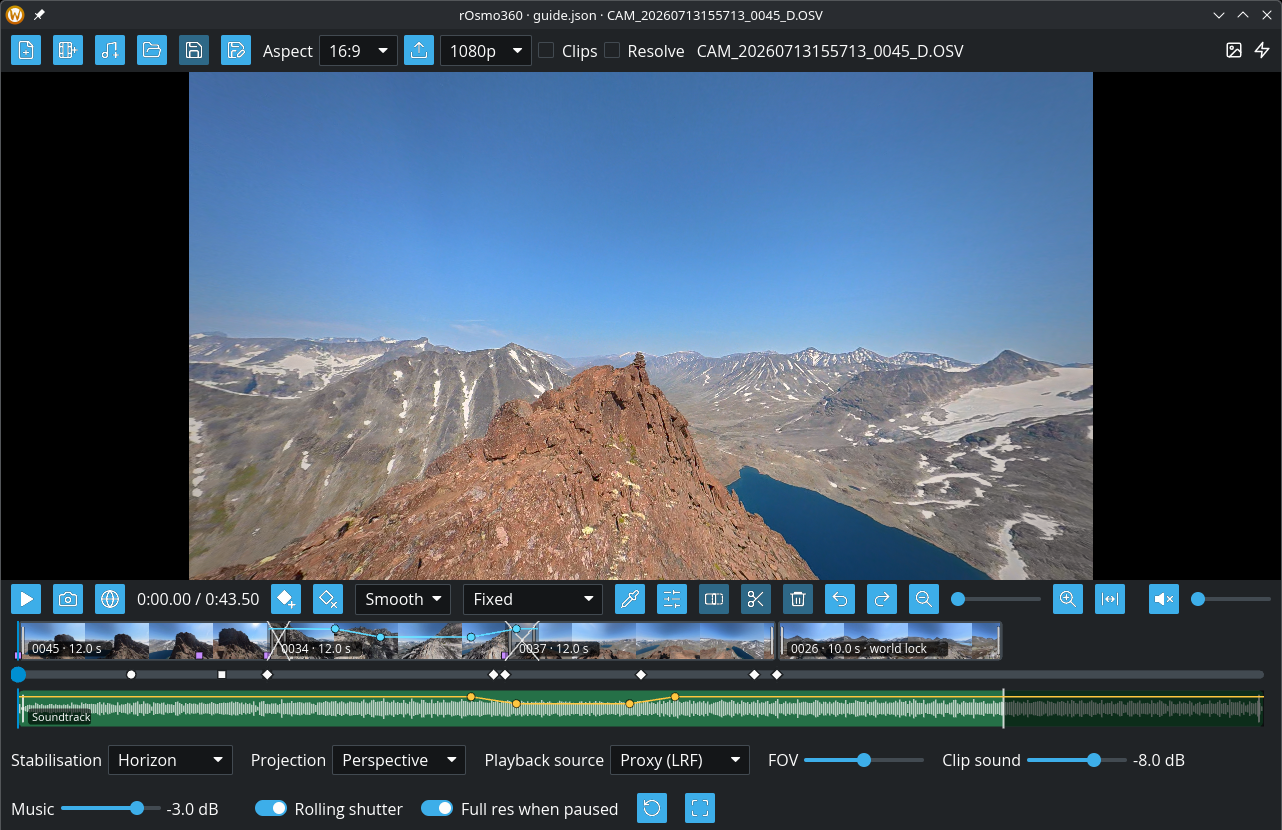
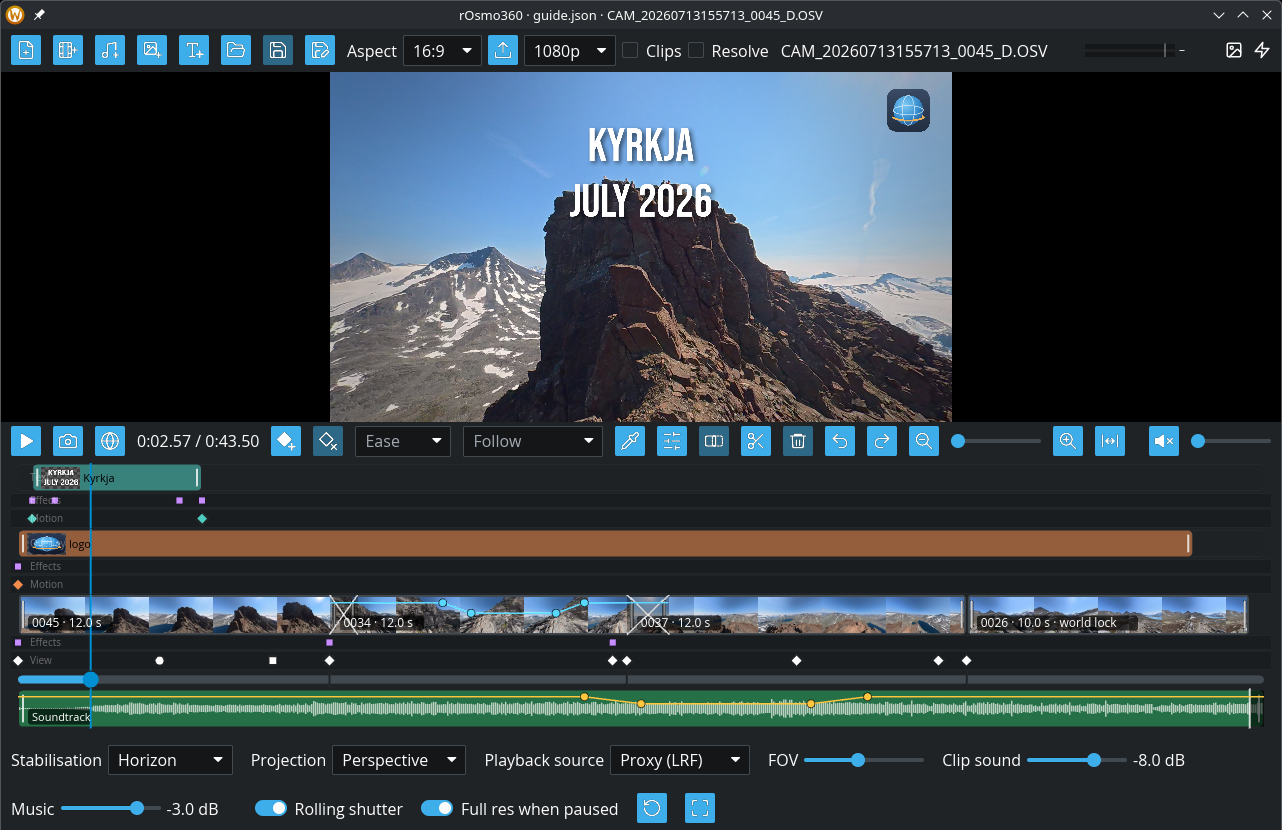
README for 0.3
Features: ordinary videos and photos as cuts, titles and overlays with
the built-in fonts and on-screen handles, opacity, the audio meter,
projects keeping the framed view; on the command line check, the new
project sheets and scan over folders. The player table gains titles and
overlays; the project format gains pictures and videos as inputs, how
keyframes frame them, opacity, and the text and overlays tracks with an
example (checked to load and draw). The roadmap drops 0.3 and adds
picture-in-picture video and Osmo 360 photos; the fonts' licences and
cosmic-text are credited. The screenshot is retaken from the guide's
demo, with its title and logo.

diff --git a/README.md b/README.md
@@ -1,8 +1,8 @@
 # rOsmo360
 
-A 360° video player and editor for **DJI Osmo 360** footage, written in Rust. It plays the camera's `.OSV` files directly: it stitches the two fisheye lenses, stabilises with the camera's gyro data and lets you look around freely, without going through DJI Studio. Then you can cut clips together on a timeline, keyframe the camera's view, add crossfades, music and colour effects, and export a framed video.
+A 360° video player and editor for **DJI Osmo 360** footage, written in Rust. It plays the camera's `.OSV` files directly: it stitches the two fisheye lenses, stabilises with the camera's gyro data and lets you look around freely, without going through DJI Studio. Then you can cut clips together on a timeline, with ordinary videos and photos beside them, keyframe the camera's view, add crossfades, music, colour effects, titles and logos, and export a framed video.
 
-![rOsmo360 editing a mountain hike: the view over a cairn on a ridge, a lake and glaciers, with cuts from four clips on the timeline below, crossfades between them, their thumbnails and keyframes, and a soundtrack lane with its waveform and volume line](docs/screenshot.png)
+![rOsmo360 editing a mountain hike: a rock tower under the title "Kyrkja, July 2026" with a small logo in the corner, and below it the timeline: a text lane and an overlay lane, cuts from four clips with crossfades, thumbnails and keyframe rows, and a soundtrack lane with its waveform and volume line](docs/screenshot.png)
 
 **New here? Read the [user guide](docs/user-guide.md)**: the whole app, step by step, with screenshots.
 
@@ -30,14 +30,15 @@ I vibed this tool primarily for Linux, since I couldn't find anything close to D
 - **Projections**: little planet (the default, like DJI Studio), perspective and flat equirectangular.
 - **Smooth playback** from the low-resolution proxy (`.LRF`), switching to the full-resolution frame when paused. On a fast GPU it can stream the full-resolution `.OSV` directly.
 - **Hardware decoding** on any GPU vendor: Vulkan Video, VA-API or CUDA, with a software fallback.
-- **Sound**, in sync with the picture, with mute and volume.
+- **Sound**, in sync with the picture, with mute and volume, and an **audio meter** of the mix (peak and RMS per channel, red past 0 dBFS, the loudest peak held), as the export will mix it.
 - **Save photos** of a paused frame: the view as framed, at 3840 px on the long side, or the whole 360° sphere at 7680 × 3840.
 - **Aspect lock** (16:9, 9:16, 4:3, 1:1, 2:1) for framing shots; saved views and exports take the same shape.
 - **Looks native**: follows your desktop's colour theme and accent (KDE, GNOME, Hyprland and others through the desktop portal, Windows, macOS), including live changes, in the Flatpak too. Your settings are remembered between runs.
 
 ### Editing
 
-- **Timeline** of cuts from one or more clips: split, trim, move and delete them, with undo and redo. Each cut shows thumbnails of its footage, and the timeline zooms in for fine work.
+- **Timeline** of cuts from one or more clips: split, trim, move and delete them, with undo and redo. Each cut shows thumbnails of its footage, its keyframes sit in rows under it, and the timeline zooms in for fine work.
+- **Ordinary videos and photos** as cuts beside the Osmo clips: MP4, MOV and the like from a phone, a drone or an action camera (any frame rate, portrait too), and JPG, PNG, WebP and other pictures. They work like any cut, framed by pan and zoom keyframes, so a slow push-in over a photo comes free.
 - **Keyframes** for the view: where it looks (yaw, pitch, roll), the zoom, and the projection, so a shot can pan, zoom or morph into a little planet. Each keyframe eases into the next smoothly, at a steady speed, or holds and then cuts.
 - **Follow the stick**: a keyframe can follow the selfie stick, and so whoever holds it, for a third-person shot that frames you automatically. It works from the camera's motion data, even straight below the camera.
 - **Follow a subject by colour**: `rosmo360 track` finds a coloured subject (a friend's jacket, a tent) through a clip, and keyframes can follow it the same way.
@@ -45,20 +46,22 @@ I vibed this tool primarily for Linux, since I couldn't find anything close to D
 - **Crossfades** between cuts, picture and sound: overlap two cuts and the first dissolves into the second. Select a cut in the overlap to frame it on its own.
 - **Music**: songs on a lane of their own under the edit, to move, trim, split and crossfade; it fades out by itself where the video ends. A project can start from a song.
 - **Sound levels**: one slider for the clips' sound and one for the music, plus volume points over time on the music and on each cut's own sound, to dip the music under talk or tame the wind.
-- **Colour effects**, keyframed per cut: exposure, contrast, highlights and shadows, temperature and tint (with a white-balance eyedropper), saturation, vibrance and a vignette, in a side panel. Plus fades from and to black for the whole edit.
-- **Projects**: save the edit and open it again later. A cut can carry a short note, shown on the timeline.
+- **Colour effects**, keyframed per cut: exposure, contrast, highlights and shadows, temperature and tint (with a white-balance eyedropper), saturation, vibrance, a vignette and opacity, in a side panel. Plus fades from and to black for the whole edit.
+- **Titles and overlays**: a text track and an overlay track above the picture, for titles, captions and logos (PNGs keep their transparency). Text is typed in a panel of its own, with six built-in fonts that look the same on every computer (and your system's), size, colour, alignment, a shadow and an outline. Drag, size and turn items right on the view; their place, effects and opacity are keyframed, so a title can drift and fade.
+- **Projects**: save the edit and open it again later, framed as you left it. A cut can carry a short note, shown on the timeline.
 - **Export** the edit to MP4 with its sound, from 720p to 4K, in the aspect lock's shape. It renders on the GPU, about four times faster than the CPU (21 frames a second at 1080p on an RTX 3090).
 - **Export for another editor**: a file per cut (`My hike - 001.mp4`, `- 002` …) with the music beside them as WAVs, graded or as shot, and a DaVinci Resolve format (DNxHR HQ with PCM sound in `.mov`) that Resolve's free Linux version can read.
 
 ### Command line
 
 - **Export** a clip with a fixed view or keyframed camera moves, or a whole project, in any shape such as 9:16.
-- **Skim clips**: contact sheets of stitched frames (of a clip, or of a project with a row per cut), and a per-second summary of the camera's motion and the sound level.
+- **Skim clips**: contact sheets of stitched frames (of a clip, or of a project: a row per cut headed with its edit time, the titles drawn in, the music's waveform underneath), and a per-second summary of the camera's motion and the sound level, for one clip or a whole folder.
+- **Check an edit** for likely mistakes: cuts out of filming order, repeated footage, crossfades within one scene, pans too fast to follow, music that ends too soon.
 - Stitch single frames or whole clips to equirectangular images and MP4 video.
 
 ## Requirements
 
-- A DJI Osmo 360 clip (`.OSV`). Keep the `.LRF` proxy file next to it for the smoothest playback.
+- A DJI Osmo 360 clip (`.OSV`). Keep the `.LRF` proxy file next to it for the smoothest playback. Ordinary videos and photos can join it in an edit.
 - `ffmpeg` and `ffprobe` on your `PATH`.
 - A GPU with Vulkan support (Linux) and up-to-date drivers. It plays, decodes and exports.
 - On Linux, ALSA for sound (`alsa-lib`, or `libasound2-dev` on Debian/Ubuntu). PipeWire and PulseAudio work through it.
@@ -96,7 +99,7 @@ The program is `target/release/rosmo360`. `packaging/build-release.sh` builds th
 
 ## Usage
 
-The **[user guide](docs/user-guide.md)** walks through the whole app with screenshots: watching, projections, stabilisation, the timeline, keyframes, projects and exporting.
+The **[user guide](docs/user-guide.md)** walks through the whole app with screenshots: watching, projections, stabilisation, the timeline, keyframes, crossfades, music, effects, titles and overlays, projects and exporting.
 
 ```sh
 rosmo360 play                 # opens the player; use Open clips… or Ctrl+O
@@ -119,7 +122,7 @@ In the player:
 | Mute | M |
 | Reset view / fullscreen | 0 / F |
 | Keyframe the current view | K, or the ◆+ button (on a keyframe, it updates it) |
-| Jump to the previous / next keyframe | `[` / `]`, or click a ◆ on the timeline |
+| Jump to the previous / next keyframe | `[` / `]`, or click a ◆ in the cut's View row |
 | Move / delete a keyframe | Drag its ◆ / Delete |
 | How a keyframe moves on to the next | J cycles, or the Ease picker: smooth (◆), linear (●) or hold (■, stays put then cuts) |
 | Make a keyframe follow the selfie stick or a subject | The Follow picker: Fixed, Stick, or Colour track (its mark gets a ring); for a colour track, the eyedropper: drag a box over the subject (a jacket, a tent) and it's tracked to the end of the cut |
@@ -136,12 +139,15 @@ In the player:
 | Move / trim / split / delete a song | Drag it (it snaps edge to edge) / drag its edges / C / Delete, with it selected; Shift-drag onto another song to crossfade them |
 | Mix levels | The **Clip sound** and **Music** sliders |
 | Volume points | Ctrl+click on the music lane or on a cut; drag them up/down and sideways, Delete removes; K adds one at the playhead with a song or point selected |
-| Colour effects and fades | G, or the sliders button: the Effects panel (sliders keyframe the cut's look at the playhead; white-balance eyedropper; to all cuts; fades in/out) |
+| Colour effects and fades | G, or the sliders button: the Effects panel (sliders keyframe the cut's look at the playhead, opacity included; white-balance eyedropper; to all cuts; fades in/out) |
+| Add a title / a logo or picture | The T with a plus (the Text panel opens at the left) / the picture with a plus; both go in at the playhead, 5 s long |
+| Place a title or picture | Paused, select it (on the view or its timeline block), then drag it, a corner to size it, the knob to turn it (Shift: 15° steps); or Across, Down, Size and Rotation in the Effects panel. Each change sets a motion keyframe at the playhead |
+| Move / trim / delete a title or picture | Drag its block / its edges on the Text or Overlay lane / Delete |
 | Undo / redo | Ctrl+Z / Ctrl+Shift+Z |
 | Save / open / new project | Ctrl+S (Ctrl+Shift+S: save as) / Ctrl+Shift+O / Ctrl+N |
 | Export the edit | The export button, an arrow out of a tray (pick 720p–2160p next to it); the aspect lock sets the shape, 16:9 when free. **Clips** writes each cut to its own file ("project - 001" and on) and the music as WAVs, for another editor (**Graded** gives them their effects); **Resolve** writes DNxHR and PCM in `.mov`, which DaVinci Resolve's free Linux version can read |
 
-A project saves the cuts with their keyframes, crossfades, effects and volume points, the music, the levels, the fades and the aspect lock, in the same file `rosmo360 export` renders (see below). Clips in the project's folder are stored by relative path, so the folder can be moved as a whole.
+A project saves the cuts with their keyframes, crossfades, effects and volume points, the music, the levels, the titles and overlays, the fades and the aspect lock, in the same file `rosmo360 export` renders (see below). Clips in the project's folder are stored by relative path, so the folder can be moved as a whole.
 
 Command-line tools:
 
@@ -176,7 +182,7 @@ Angles are in degrees: yaw turns right, pitch looks up. With stabilisation on (h
 
 Exports are 1080p by default (1920 × 1080, or 1080 × 1920 for 9:16), a good quality for sharing online. `-r` picks `720p`, `1080p`, `1440p` or `2160p` (`4k`), meaning the short side in pixels. `-a` sets the shape (`16:9`, `9:16`, `1:1`, `4:5`, …) when the reframe file doesn't, and `--size 1234x567` gives an exact size.
 
-To join cuts from one or more clips, write a project file and export it. Each cut has its own keyframes, in clip time, and may set its own `stabilize` (`off`, `horizon`, `level` or `lock`; otherwise `--stabilize`, horizon by default) and a `note`, which the player's timeline shows on the cut. Relative paths are relative to the project file:
+To join cuts from one or more clips, write a project file and export it. A cut's `input` is an Osmo clip, an ordinary video or a picture (a picture has no length of its own: `"in": 0, "out": 5` shows it for 5 s). Each cut has its own keyframes, in clip time, and may set its own `stabilize` (`off`, `horizon`, `level` or `lock`; otherwise `--stabilize`, horizon by default) and a `note`, which the player's timeline shows on the cut. Relative paths are relative to the project file:
 
 ```json
 {
@@ -193,7 +199,9 @@ A cut may also have:
 
 - `crossfade`: seconds it overlaps the cut before, dissolving in from it (the edit is that much shorter);
 - `volume`: its own sound's level over time, `[{"t": 12, "volume": -10}, …]` in clip time and dB, straight lines between points;
-- `effects`: colour keyframes in clip time, each holding the whole look (fields left out are 0): `exposure` (stops, −3…3), `contrast`, `highlights`, `shadows`, `temperature`, `tint`, `saturation`, `vibrance` (−1…1), `vignette` (0…1), and `ease`.
+- `effects`: colour keyframes in clip time, each holding the whole look (fields left out are 0, opacity 1): `exposure` (stops, −3…3), `contrast`, `highlights`, `shadows`, `temperature`, `tint`, `saturation`, `vibrance` (−1…1), `vignette` (0…1), `opacity` (0…1, the rest black), and `ease`.
+
+On an ordinary video or a picture there's no sphere: a keyframe pans and zooms within the picture. `fov` 90 shows its whole height (and is where a cut without keyframes stays), 45 is a 2× zoom, and 90° of `yaw` or `pitch` moves the view one picture height.
 
 And the edit as a whole: `sound` (the clips' level in dB), `fades` (seconds from and to black) and `music`, songs placed in edit time:
 
@@ -216,6 +224,26 @@ And the edit as a whole: `sound` (the clips' level in dB), `fades` (seconds from
 ```
 
 A music clip plays `in` to `out` of its song from `at` in the edit; two may overlap partly, which crossfades them. Its `keyframes` are volume points in edit time, in dB on top of `volume`. The export ends with the last cut, fading out music that runs on.
+
+Titles go in `text` and pictures in `overlays`, each a list of lanes (the first lowest; text over the overlays) holding items one after another, in edit time like music:
+
+```json
+{
+  "overlays": [{"items": [
+    {"input": "logo.png", "at": 0, "in": 0, "out": 40,
+     "motion": [{"t": 0, "x": 0.92, "y": 0.1, "size": 0.12}], "effects": [{"t": 0, "opacity": 0.85}]}
+  ]}],
+  "text": [{"items": [
+    {"text": {"content": "Kyrkja\nJuly 2026", "font": "Bebas Neue", "size": 0.13, "colour": "#ffffff",
+              "align": "centre", "shadow": true, "outline": {"colour": "#000000", "width": 0.05}},
+     "at": 0.5, "in": 0, "out": 6,
+     "motion": [{"t": 0, "x": 0.5, "y": 0.3}, {"t": 6, "x": 0.5, "y": 0.28, "size": 1.08}],
+     "effects": [{"t": 0, "opacity": 0}, {"t": 0.8, "opacity": 1}, {"t": 5.2, "opacity": 1}, {"t": 6, "opacity": 0}]}
+  ]}]
+}
+```
+
+An item shows from `at` in the edit for `out − in` seconds. Its `motion` keyframes, in its own time from `in`, give its centre (`x`, `y`, 0…1 across and down the frame), `size` (1: a picture fits the frame, text is as big as its own `size`, a share of the frame's height) and `rotation` (degrees clockwise), eased like camera keyframes; left-out fields are their defaults (the centre, 1, 0). `effects` are as for cuts. Text takes `content`, `font` (the built-in Inter, Montserrat, Bebas Neue, Playfair Display, Caveat and Permanent Marker, or a system font; a missing one falls back to Inter), `size`, `colour`, `bold`, `align` (`left`, `centre`, `right`), `shadow` and `outline`. Clips export leaves titles and overlays out.
 
 ```sh
 rosmo360 export edit.json -o edit.mp4
@@ -245,21 +273,27 @@ The CSV has, every 0.1 s, the subject's direction in the camera, its yaw and pit
 Skimming a clip:
 
 ```sh
-rosmo360 info clip.OSV                      # length, frame rate, recording time, as JSON
+rosmo360 info clip.OSV                      # length, frame rate, recording time and kind (osv, video, picture), as JSON
 rosmo360 preview clip.OSV -o sheet.png      # 24 moments on one contact sheet, marked with time and yaw
 rosmo360 preview clip.OSV --reframe moves.json -o check.png   # the framing at each keyframe
 rosmo360 preview edit.json -o check.png      # a project: a row per cut, framed as the export (--every N for more)
+rosmo360 preview edit.json --tile 200 --columns 6 -o check.png   # a long edit on one readable sheet
 rosmo360 scan clip.OSV > scan.csv           # per second: heading, tilt, turning, shake, loudness
 rosmo360 scan clip.OSV --image > scan.csv   # and open sky, skyline height, views out to the horizon
+rosmo360 scan ~/Videos/Hike -o scans/        # a CSV per clip in a folder, four at a time
+rosmo360 check edit.json                    # likely mistakes in an edit, a line each
 ```
 
-Clips' telemetry and thumbnails are cached in `~/.cache/rosmo360`, so a clip opens in a fraction of a second after the first time (0047 from a network share: 46 s, then 0.4 s). `rosmo360 cache add FOLDER` caches a folder's clips ahead of time, `rosmo360 cache move FOLDER` keeps the cache elsewhere (or set `ROSMO360_CACHE` for one run), `rosmo360 cache` shows where it is and its size, `rosmo360 cache clear [--older-than DAYS]` empties it, and `--no-cache` on any command bypasses it.
+A project's sheet heads each row with the cut's edit time, number, clip and in–out points (`2:16.4 #23 0036 18.0-25.0`), labels each tile with its edit and clip time, draws the titles and overlays, and runs the music's waveform under each row. `check` lists cuts out of the order they were filmed in, a cut repeating footage the cut before shows, crossfades between cuts of one clip seconds apart, pans over 30°/s (`--fast-pan`; it says whether the keyframes or the camera's own turning make them), cuts under a second, and music ending before the edit or running far past it.
+
+Clips' telemetry and thumbnails, and songs' waveforms, are cached in `~/.cache/rosmo360`, so a clip opens in a fraction of a second after the first time (0047 from a network share: 46 s, then 0.4 s). `rosmo360 cache add FOLDER` caches a folder's clips ahead of time, `rosmo360 cache move FOLDER` keeps the cache elsewhere (or set `ROSMO360_CACHE` for one run), `rosmo360 cache` shows where it is and its size, `rosmo360 cache clear [--older-than DAYS]` empties it, and `--no-cache` on any command bypasses it.
 
 `rosmo360 --help` lists everything, including `rig` (calibration as JSON), `imu` (motion data as CSV) and `seam` (seam quality report).
 
 ## Roadmap
 
-- Version 0.3: ordinary video files (MP4, MOV from a phone or drone) and pictures as cuts beside the Osmo clips, an opacity effect, and an overlay track for pictures, text and picture-in-picture video.
+- Osmo 360 photos as cuts, looked around in like a frozen clip.
+- Picture-in-picture video on the overlay track.
 - 360° metadata on equirectangular exports, so YouTube and VR players show them as 360° video.
 - Smooth full-resolution playback on modest hardware (zero-copy decoding).
 - Windows and macOS builds.
@@ -274,6 +308,8 @@ rOsmo360 is licensed under either of
 
 at your option. Unless you state otherwise, any contribution you submit for inclusion in rOsmo360 is dual-licensed as above, without any additional terms or conditions.
 
+The built-in fonts in [`fonts/`](fonts/) keep their own licences (the SIL Open Font License 1.1, and Apache 2.0 for Permanent Marker), included beside each font and with every release; see [`fonts/README.md`](fonts/README.md).
+
 The Vibing with Ravelund logo ([`vibewithravelund-lowres-corrected.jpg`](vibewithravelund-lowres-corrected.jpg)) and the screenshots ([`docs/screenshot.png`](docs/screenshot.png) and those in [`docs/guide/`](docs/guide/)) are not covered by these licences; all rights reserved.
 
 ## Support
@@ -287,7 +323,8 @@ Made by **Vibing with Ravelund**, 2026. rOsmo360 was built through AI-assisted (
 It stands on the shoulders of:
 
 - [telemetry-parser](https://github.com/AdrianEddy/telemetry-parser) by Adrian Eddy, which reads the camera's calibration and motion data;
-- [iced](https://iced.rs) (GUI), [wgpu](https://wgpu.rs) (GPU rendering), [cpal](https://github.com/RustAudio/cpal) (sound), [native-theme](https://github.com/tiborgats/native-theme) (desktop theming) and [rfd](https://github.com/PolyMeilex/rfd) (file dialogs);
+- [iced](https://iced.rs) (GUI), [wgpu](https://wgpu.rs) (GPU rendering), [cosmic-text](https://github.com/pop-os/cosmic-text) (drawing titles), [cpal](https://github.com/RustAudio/cpal) (sound), [native-theme](https://github.com/tiborgats/native-theme) (desktop theming) and [rfd](https://github.com/PolyMeilex/rfd) (file dialogs);
+- the fonts Inter, Montserrat, Bebas Neue, Playfair Display, Caveat and Permanent Marker, by their designers, as published on [Google Fonts](https://fonts.google.com);
 - [FFmpeg](https://ffmpeg.org), used as an external program for decoding.
 
 rOsmo360 is an independent project. It is not affiliated with or endorsed by DJI. DJI, Osmo and DJI Studio are trademarks of SZ DJI Technology Co., Ltd.
